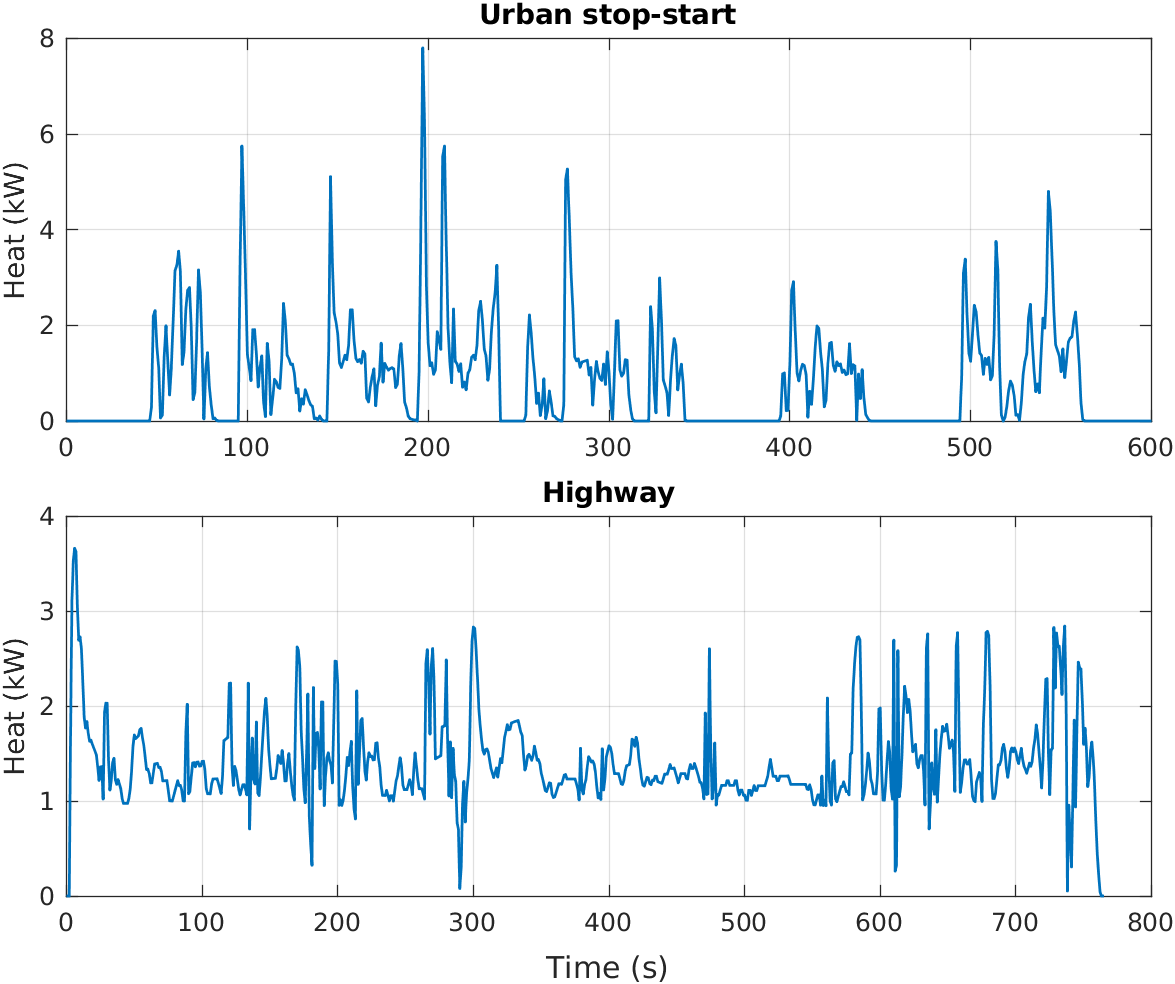
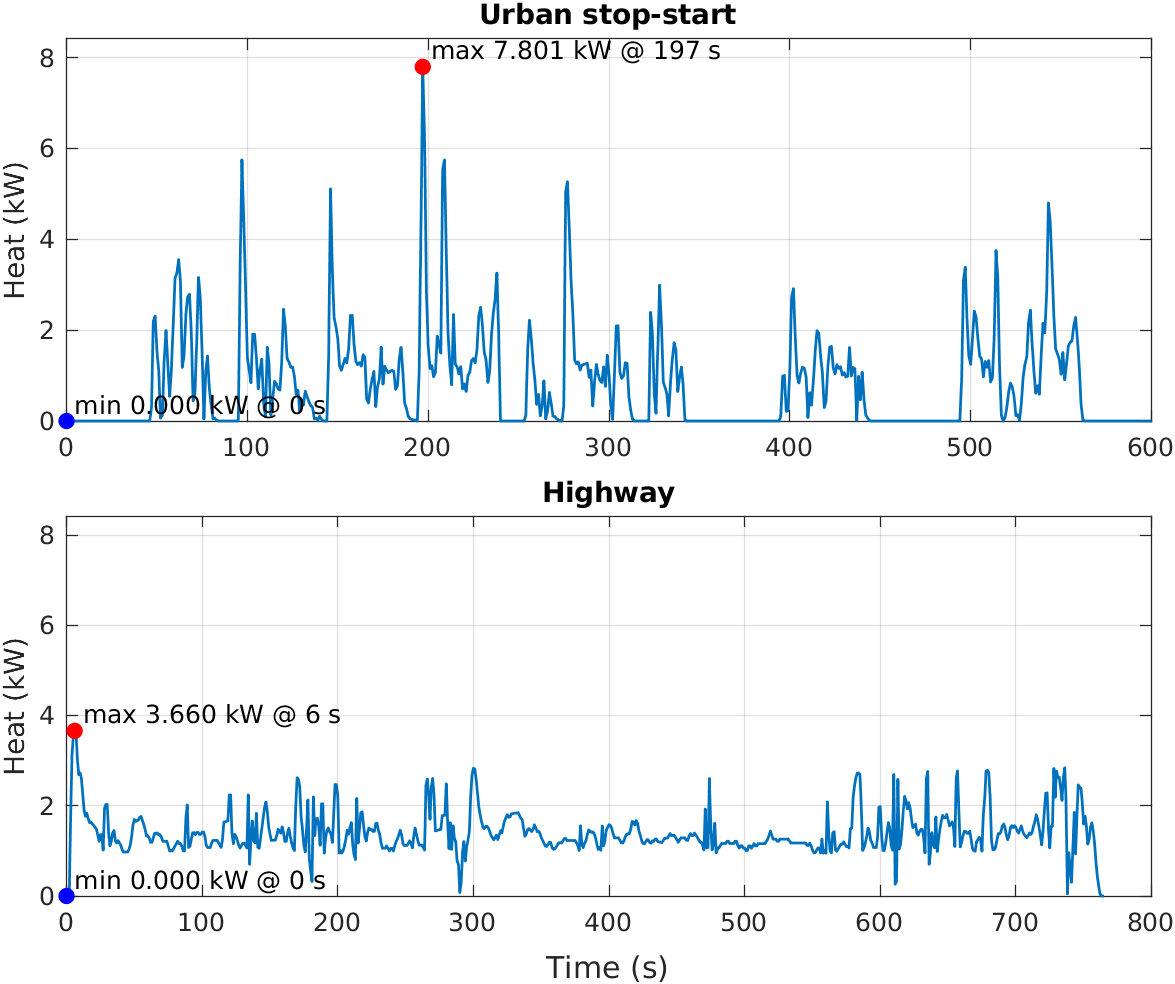
Publish loop plots and result tables

diff --git a/README.md b/README.md
@@ -63,17 +63,85 @@ structs; those two modules never read each other's parameters.
 
 ## MATLAB results
 
+These figures and tables come from the same verified MATLAB R2024b run. Values
+are rounded for presentation; the workflow artifact retains the full-precision
+CSV outputs described in [`docs/RESULT_FILES.md`](docs/RESULT_FILES.md).
+
 ### Motor heat generation
 
 <img src="docs/images/results/motor_heat_traces.png" width="820" alt="Urban and highway drive-unit heat traces generated by MATLAB">
 
-### Battery heat and cell temperature
+| Duty cycle | Average heat | Peak heat | Peak context |
+|---|---:|---:|---|
+| Urban stop-start | 0.836 kW | 7.801 kW | 197 s |
+| Highway | 1.411 kW | 3.660 kW | 6 s launch transient |
+
+### Propulsion-loop thermal requirements
+
+<img src="docs/images/results/motor_cooling_requirements.png" width="820" alt="Propulsion-loop thermal duty, coolant rise, radiator UA and airflow requirements generated by MATLAB">
+
+| Duty cycle | Load point | Heat duty | Coolant rise | Radiator outlet | Required UA | Required air flow |
+|---|---|---:|---:|---:|---:|---:|
+| Urban stop-start | Average | 0.836 kW | 0.68 C | 64.32 C | 59 W/K | 0.083 kg/s |
+| Urban stop-start | Peak | 7.801 kW | 6.34 C | 58.66 C | 665 W/K | 0.776 kg/s |
+| Highway | Average | 1.411 kW | 1.15 C | 63.85 C | 101 W/K | 0.140 kg/s |
+| Highway | Peak | 3.660 kW | 2.97 C | 62.03 C | 277 W/K | 0.364 kg/s |
+
+The peak urban case controls the current radiator screen. These are sizing
+requirements, not a claim that a selected radiator has already met them.
+
+### Propulsion-loop hydraulic screen
+
+<img src="docs/images/results/loop_sensitivity.png" width="760" alt="Propulsion coolant-loop pressure-loss sensitivity generated by MATLAB">
+
+| Flow | Documented pump head | Known partial-loop loss | Minimum margin | Current decision |
+|---:|---:|---:|---:|---|
+| 20 L/min | 60.0 kPa | 71.36 kPa | -11.36 kPa | Active pump Q-H curve required |
+
+The known partial loop already exceeds the single documented pump point. The
+91.08 kPa value that includes an illustrative radiator route is retained as a
+sensitivity case, not treated as a final installed-loop prediction.
+
+### Battery loop thermal response
 
 <img src="docs/images/results/battery_cooling_traces.png" width="820" alt="Urban and highway battery heat and cell-temperature traces generated by MATLAB">
 
-### Propulsion-loop pressure loss
+| Duty cycle | Average battery heat | Peak heat | Average plate request | Final cell temperature | Margin to 60 C limit | Result |
+|---|---:|---:|---:|---:|---:|---|
+| Urban stop-start | 0.025 kW | 0.745 kW at 209 s | 0.501 kW | 43.79 C | 15.0 C | Within screen |
+| Highway | 0.157 kW | 0.637 kW at 301 s | 0.502 kW | 43.88 C | 15.0 C | Within screen |
 
-<img src="docs/images/results/loop_sensitivity.png" width="760" alt="Propulsion coolant-loop pressure-loss sensitivity generated by MATLAB">
+The cell starts at 45 C while plate coolant is fixed at 30 C, so stored heat
+removal dominates and cell temperature declines. The plot now separates
+electrical heat generation from cooling request; this remains a lumped thermal
+screen pending measured coolant and cell-temperature data.
+
+### Cabin cooling load
+
+<img src="docs/images/results/cabin_load_breakdown.png" width="720" alt="Recovered Karachi cabin sensible-load components generated by MATLAB">
+
+| Recovered component | Load |
+|---|---:|
+| Body and glazing sensible load | 3.336 kW |
+| Occupant metabolic sensible load | 0.594 kW |
+| Infiltration sensible load | 0.226 kW |
+| Recovered partial sensible total | 4.156 kW |
+
+This is not yet a complete Karachi pull-down load. Solar, latent, ventilation,
+transient pull-down and condenser derating still require validation.
+
+### Shared battery/cabin compressor
+
+<img src="docs/images/results/shared_compressor_capacity.png" width="820" alt="Shared compressor demand and candidate capacity traces generated by MATLAB">
+
+| Candidate | Capacity | Peak combined demand | Peak margin | Time within capacity | Current decision |
+|---|---:|---:|---:|---:|---|
+| DM18A1 map point | 3.63 kW | 4.679 kW | -1.049 kW | 0% | Does not cover screen |
+| Larger screening point | 4.60 kW | 4.679 kW | -0.079 kW | 0% | Does not cover screen |
+
+The shared result merges only the completed battery-loop request and cabin-load
+result. It is a gross capacity allocation screen; refrigerant states,
+condenser performance and compressor controls are not solved yet.
 
 ## Repository layout
 

diff --git a/docs/RESULT_FILES.md b/docs/RESULT_FILES.md
@@ -28,8 +28,10 @@ Plots remain module-specific:
 - `shared_compressor/shared_compressor_capacity.png`
 
 Reference copies from the verified MATLAB R2024b workflow are committed under
-`docs/images/results/` and displayed in the main README. Files under `outputs/`
-remain generated artifacts and are rebuilt by `verify_framework`.
+`docs/images/results/` and displayed with rounded decision tables in the main
+README. Files under `outputs/` remain generated artifacts and are rebuilt by
+`verify_framework`.
 
-No combined plot is generated because the cabin input is presently a fixed,
-partial sensible duty rather than a validated transient cabin-load trace.
+The shared-compressor plot combines the fixed recovered cabin subtotal with the
+transient battery plate request only for gross capacity screening. It is not a
+refrigerant-cycle simulation or a validated transient cabin-load result.

diff --git a/CHANGELOG.md b/CHANGELOG.md
@@ -8,7 +8,8 @@
   time, temperature extrema, event times and temperature margin.
 - Added propulsion thermal-requirement, cabin-load and shared-compressor plots.
 - Revised motor and battery transient plots with comparable axes and extrema.
-- Published every MATLAB-generated result plot in the README.
+- Published every MATLAB-generated result plot in the README with rounded
+  loop-level decision tables and explicit model-boundary notes.
 
 ## 3.0.0 — 2026-09-11
 
